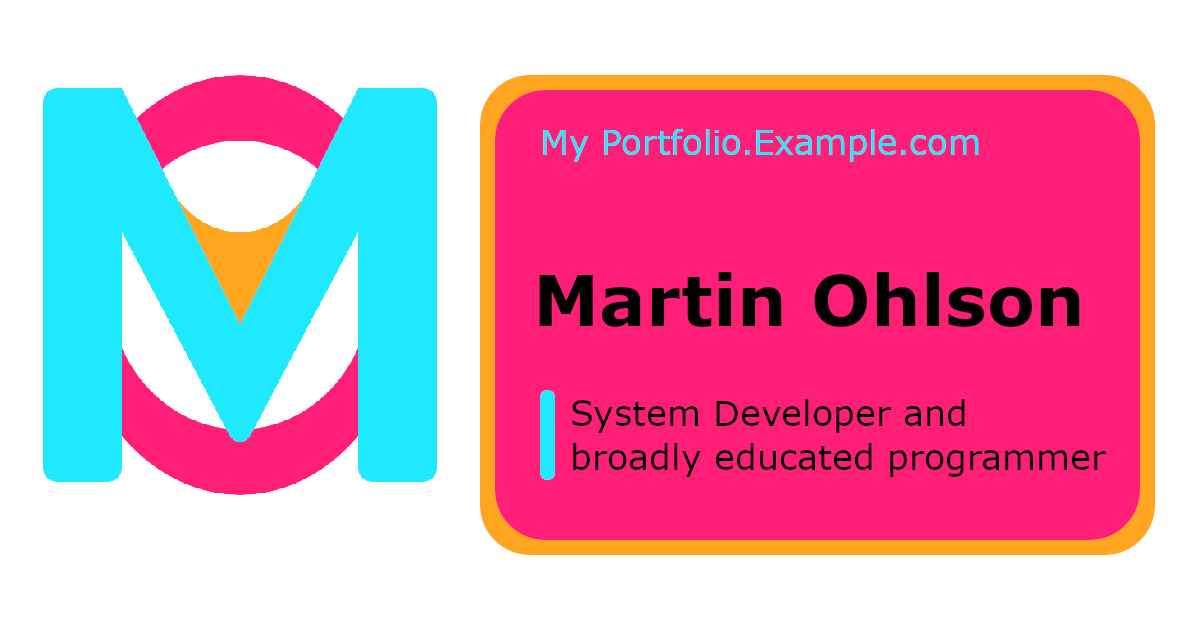
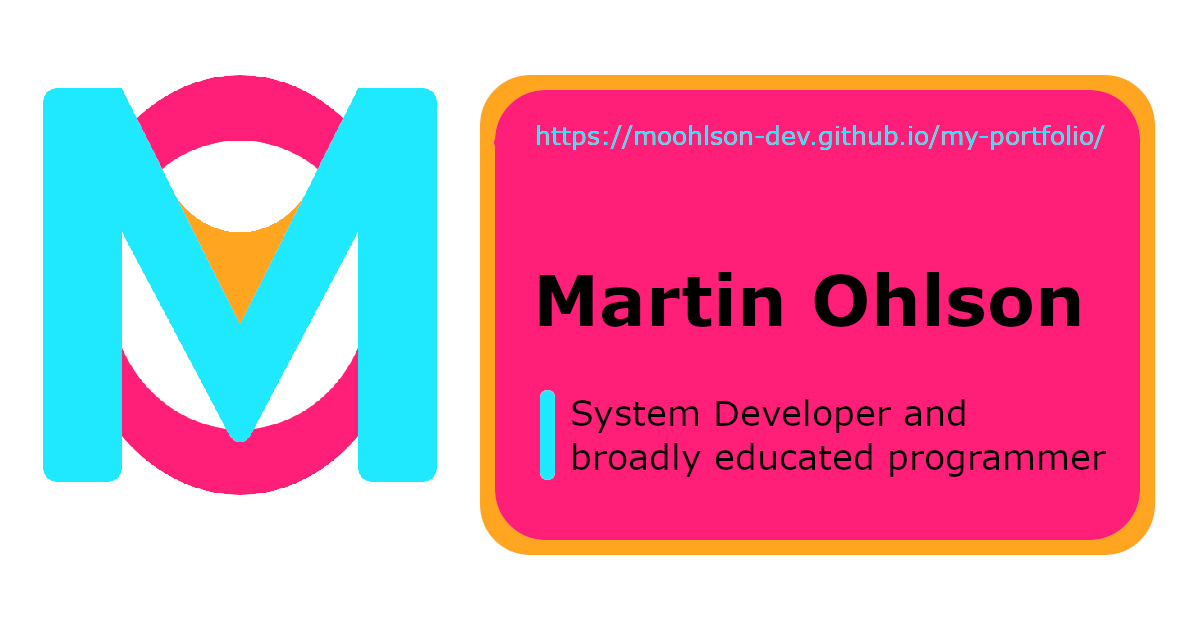
Added an errorpage component and gave a wildcard route to ti in routes.ts, also updated link to website in preview and index.html

Changed region(s): [[0.4317, 0.181, 0.925, 0.2714]]

diff --git a/src/app/components/error-page/error-page.spec.ts b/src/app/components/error-page/error-page.spec.ts
@@ -1,0 +1,22 @@
+import { ComponentFixture, TestBed } from '@angular/core/testing';
+
+import { ErrorPage } from './error-page';
+
+describe('ErrorPage', () => {
+  let component: ErrorPage;
+  let fixture: ComponentFixture<ErrorPage>;
+
+  beforeEach(async () => {
+    await TestBed.configureTestingModule({
+      imports: [ErrorPage],
+    }).compileComponents();
+
+    fixture = TestBed.createComponent(ErrorPage);
+    component = fixture.componentInstance;
+    await fixture.whenStable();
+  });
+
+  it('should create', () => {
+    expect(component).toBeTruthy();
+  });
+});

diff --git a/src/app/app.routes.ts b/src/app/app.routes.ts
@@ -1,11 +1,17 @@
 import { Routes } from '@angular/router';
 import {MainPage} from './components/main-page/main-page';
+import { ErrorPage } from './components/error-page/error-page';
 
 export const routes: Routes = [
 
   {
     path: '',
     component: MainPage,
-    title: 'Martin Ohlson| Main page',
+    title: 'Martin Ohlson | Main page',
   },
+  {
+    path: '**',
+    component: ErrorPage,
+    title: "Martin Ohlson | Page Not Found"
+  }
 ];

diff --git a/src/index.html b/src/index.html
@@ -9,7 +9,7 @@
     "@type": "Person",
     "name": "Martin Ohlson",
     "jobTitle": "System Developer",
-    "url": "https://yourusername.github.io/your-repo/",
+    "url": "https://moohlson-dev.github.io/my-portfolio/",
     "knowsAbout": ["Angular", "TypeScript", "Tailwind CSS", "System Development", "3D programming", "Relational Databases"],
     "sameAs": [
       "WIP",

diff --git a/src/app/components/error-page/error-page.ts b/src/app/components/error-page/error-page.ts
@@ -1,0 +1,9 @@
+import { Component } from '@angular/core';
+
+@Component({
+  selector: 'app-error-page',
+  imports: [],
+  templateUrl: './error-page.html',
+  styleUrl: './error-page.css',
+})
+export class ErrorPage {}
